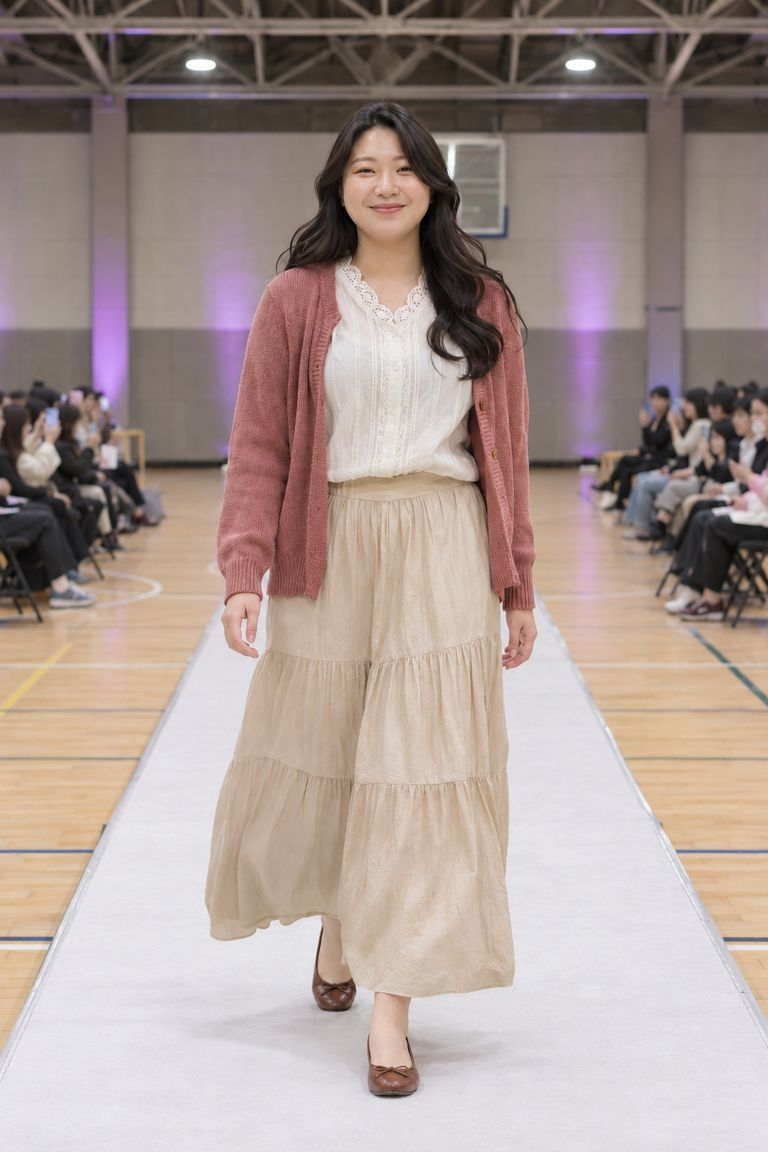
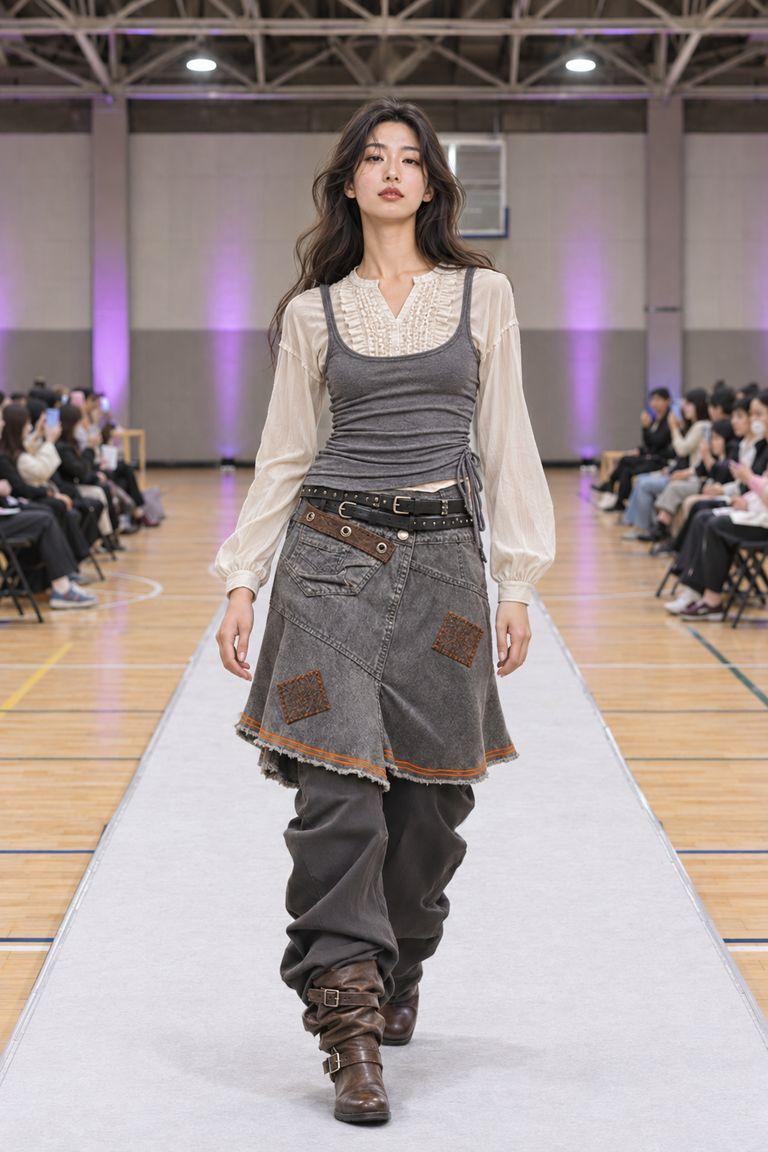
스타일러 19 새 모델 사진·옷·태그

diff --git a/assets/js/data.js b/assets/js/data.js
@@ -179,13 +179,13 @@ window.LAM_DATA = {
         { cat: '하의', brand: '협찬 브랜드', name: '인디고 생지 데님', material: '데님', en: 'dark indigo raw selvedge denim jeans, cuffed' },
         { cat: '신발', brand: '성수 슈메이커', name: '탄 목토 워크 부츠', material: '레더', en: 'tan leather moc-toe work boots' }
       ] },
-    { no: 19, name: '장예린', insta: 'yerin_jang', tags: ['보헤미안', '로맨틱'], face: [51.2, 8.1, 2.21],
-      person: 'Korean woman, late 20s, long wavy hair', pose: 'walking gracefully, skirt moving',
+    { no: 19, name: '장예린', insta: 'yerin_jang', tags: ['레이어드', '보헤미안'], face: [49.9, 6.3, 2.65],
+      person: 'Korean woman, mid-20s, long dark wavy hair with a center part', pose: 'walking calmly toward the camera, arms relaxed',
       items: [
-        { cat: '아우터', brand: '성수 빈티지 숍', name: '더스티 로즈 가디건', material: '니트', en: 'dusty-rose knit cardigan' },
-        { cat: '상의', brand: '기부 의류', name: '화이트 레이스 블라우스', material: '코튼', en: 'white cotton blouse with lace trim at the collar' },
-        { cat: '하의', brand: '협찬 브랜드', name: '베이지 티어드 롱스커트', material: '코튼', en: 'long beige tiered cotton skirt' },
-        { cat: '신발', brand: '성수 슈메이커', name: '브라운 발레 플랫', material: '레더', en: 'brown leather ballet flats' }
+        { cat: '상의', brand: '기부 의류', name: '크림 러플 블라우스', material: '코튼', en: 'cream long-sleeve blouse with a ruffled V-neck placket and gathered cuffs' },
+        { cat: '하의', brand: '성수 빈티지 숍', name: '그레이 데님 패치 스커트', material: '데님', en: 'gray washed-denim asymmetric flared skirt with brown leather patches and an orange stitched raw hem' },
+        { cat: '하의', brand: '협찬 브랜드', name: '차콜 셔링 와이드 팬츠', material: '코튼', en: 'dark charcoal ruched wide pants worn under the skirt' },
+        { cat: '신발', brand: '성수 슈메이커', name: '브라운 슬라우치 부츠', material: '레더', en: 'brown slouchy leather boots with buckle straps' }
       ] },
     { no: 20, name: '안태오', insta: 'taeo.an', tags: ['미니멀', '젠더리스'], face: [50.0, 5.3, 2.31],
       person: 'Korean man, mid-20s, tall and slim, two-block haircut', pose: 'long confident stride, coat open',

diff --git a/index.html b/index.html
@@ -6,18 +6,18 @@
 <meta name="robots" content="noindex, nofollow">
 <meta name="color-scheme" content="light dark">
 <title>LOOK AND ME · 리믹스 성수</title>
-<link rel="stylesheet" href="assets/css/tokens.css?v=1127223008">
-<link rel="stylesheet" href="assets/css/app.css?v=1127223008">
-<link rel="stylesheet" href="assets/css/site.css?v=1127223008">
+<link rel="stylesheet" href="assets/css/tokens.css?v=1127224307">
+<link rel="stylesheet" href="assets/css/app.css?v=1127224307">
+<link rel="stylesheet" href="assets/css/site.css?v=1127224307">
 </head>
 <body>
 <div id="view" class="app"></div>
 <nav class="tabbar" id="tabbar" aria-label="메뉴" hidden></nav>
 <div id="sheet-root"></div>
 
-<script src="assets/js/data.js?v=1127223008"></script>
-<script src="assets/js/icons.js?v=1127223008"></script>
-<script src="assets/js/vendor/jsqr.js?v=1127223008"></script>
-<script src="assets/js/app.js?v=1127223008"></script>
+<script src="assets/js/data.js?v=1127224307"></script>
+<script src="assets/js/icons.js?v=1127224307"></script>
+<script src="assets/js/vendor/jsqr.js?v=1127224307"></script>
+<script src="assets/js/app.js?v=1127224307"></script>
 </body>
 </html>

diff --git a/styler.html b/styler.html
@@ -6,18 +6,18 @@
 <meta name="robots" content="noindex, nofollow">
 <meta name="color-scheme" content="light dark">
 <title>LOOK AND ME · 리믹스 성수</title>
-<link rel="stylesheet" href="assets/css/tokens.css?v=1127223008">
-<link rel="stylesheet" href="assets/css/app.css?v=1127223008">
-<link rel="stylesheet" href="assets/css/site.css?v=1127223008">
+<link rel="stylesheet" href="assets/css/tokens.css?v=1127224307">
+<link rel="stylesheet" href="assets/css/app.css?v=1127224307">
+<link rel="stylesheet" href="assets/css/site.css?v=1127224307">
 </head>
 <body>
 <div id="view" class="app"></div>
 <nav class="tabbar" id="tabbar" aria-label="메뉴" hidden></nav>
 <div id="sheet-root"></div>
 
-<script src="assets/js/data.js?v=1127223008"></script>
-<script src="assets/js/icons.js?v=1127223008"></script>
-<script src="assets/js/vendor/jsqr.js?v=1127223008"></script>
-<script src="assets/js/app.js?v=1127223008"></script>
+<script src="assets/js/data.js?v=1127224307"></script>
+<script src="assets/js/icons.js?v=1127224307"></script>
+<script src="assets/js/vendor/jsqr.js?v=1127224307"></script>
+<script src="assets/js/app.js?v=1127224307"></script>
 </body>
 </html>

diff --git a/qr.html b/qr.html
@@ -38,8 +38,8 @@
 <h2>전체 옷</h2>
 <div class="grid small" id="all"></div>
 
-<script src="assets/js/data.js?v=1127223008"></script>
-<script src="assets/js/vendor/qrcode.js?v=1127223008"></script>
+<script src="assets/js/data.js?v=1127224307"></script>
+<script src="assets/js/vendor/qrcode.js?v=1127224307"></script>
 <script>
 (function () {
   var D = window.LAM_DATA;
